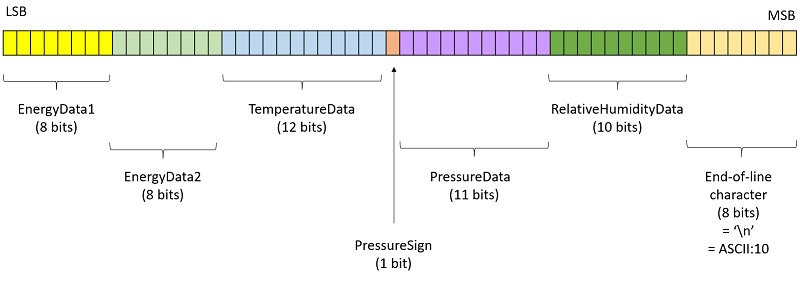
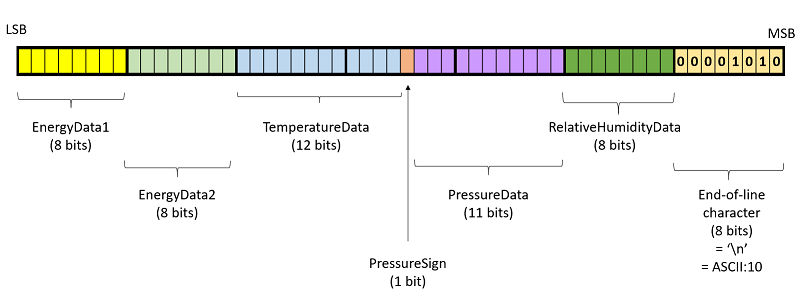
commit dataformat

diff --git a/sessions/Session1.md b/sessions/Session1.md
@@ -177,7 +177,7 @@ The goal of this section is to design a program which allows you to open a file,
     - on Linux/MacOSX machines: `~/esipap_instructions/Session1/sensor.dat`
 	- on Windows machines: `C:\esipap_instructions\Session1\sensor.dat`
 	  
-  - The code must extract the data from the file. In order to achieve this task, the developer needs to know the data structure used to encode the content. It is given by the figure below.<br/>
+  - The code must extract the data from the file. In order to achieve this task, the developer needs to know the data structure used to encode the content. It is given by the figure below. One acquisition corresponds to 7 bytes *i.e* 56 bits.<br/>
        ![dataformat](../doc/session1/dataformat.png)
 	   	  
   - The code must decode the data. `EnergyData1` and `EnergyData2` are not enciphered. The decoding relation for the other data are given by the formula below.<br/>
